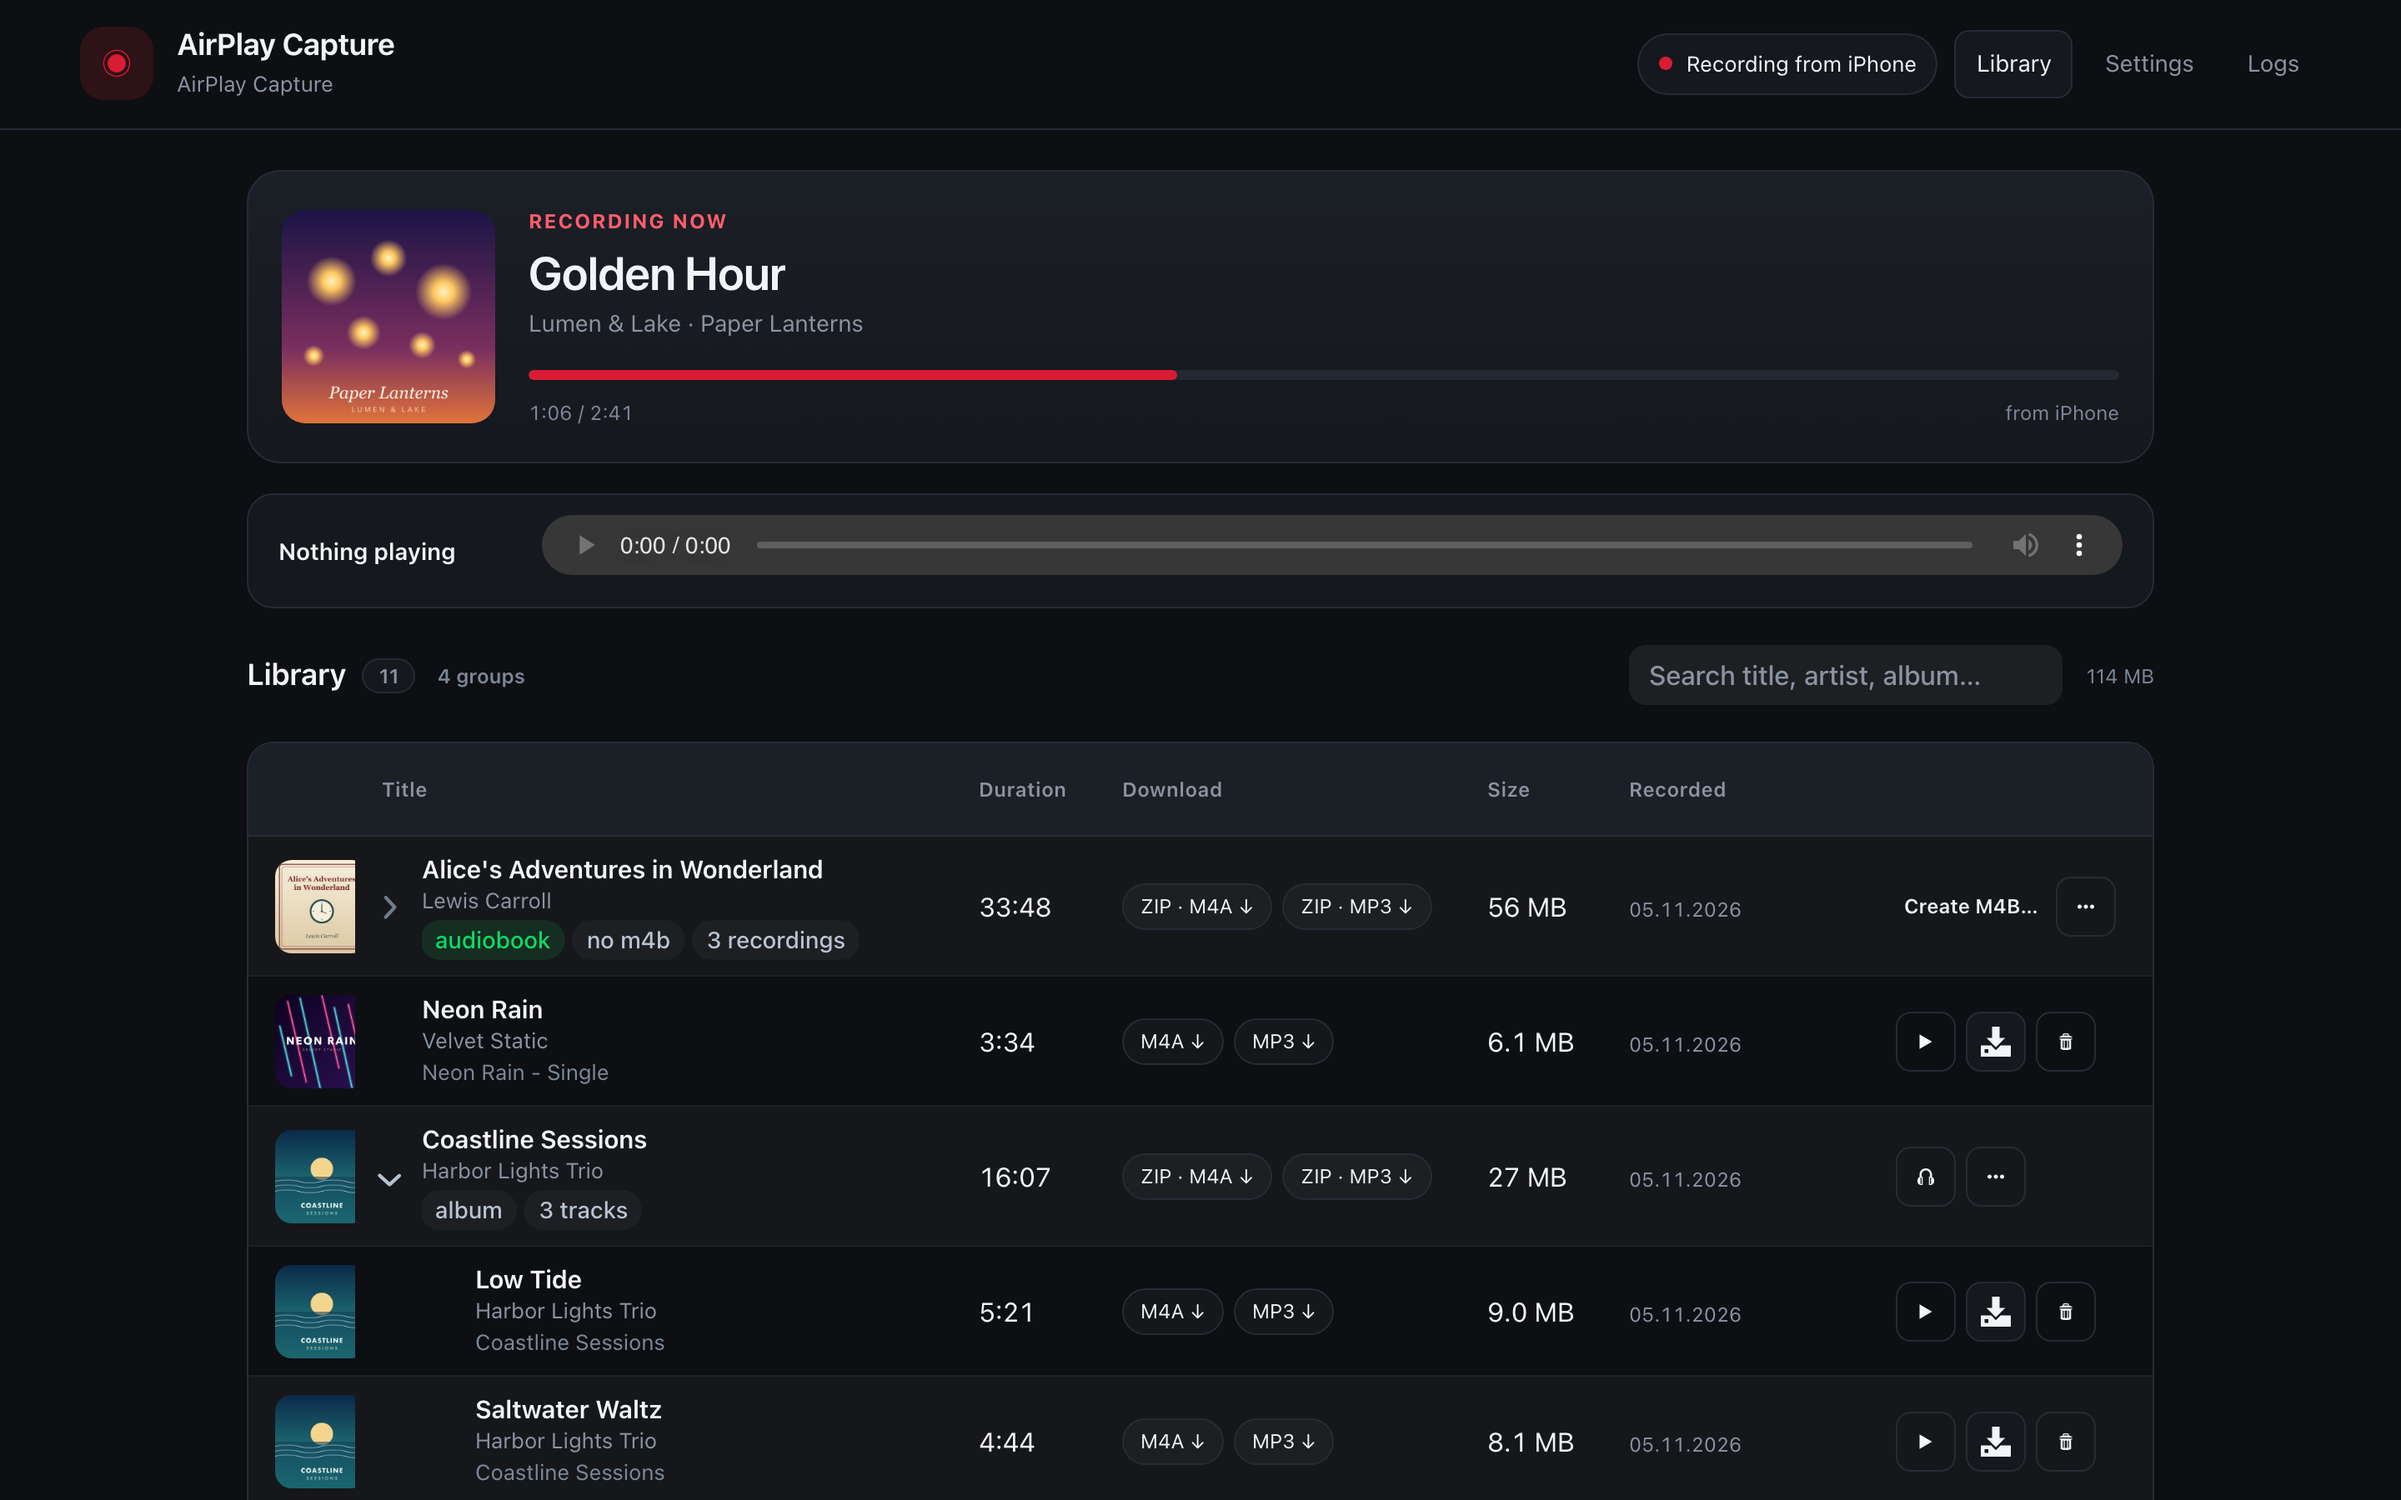
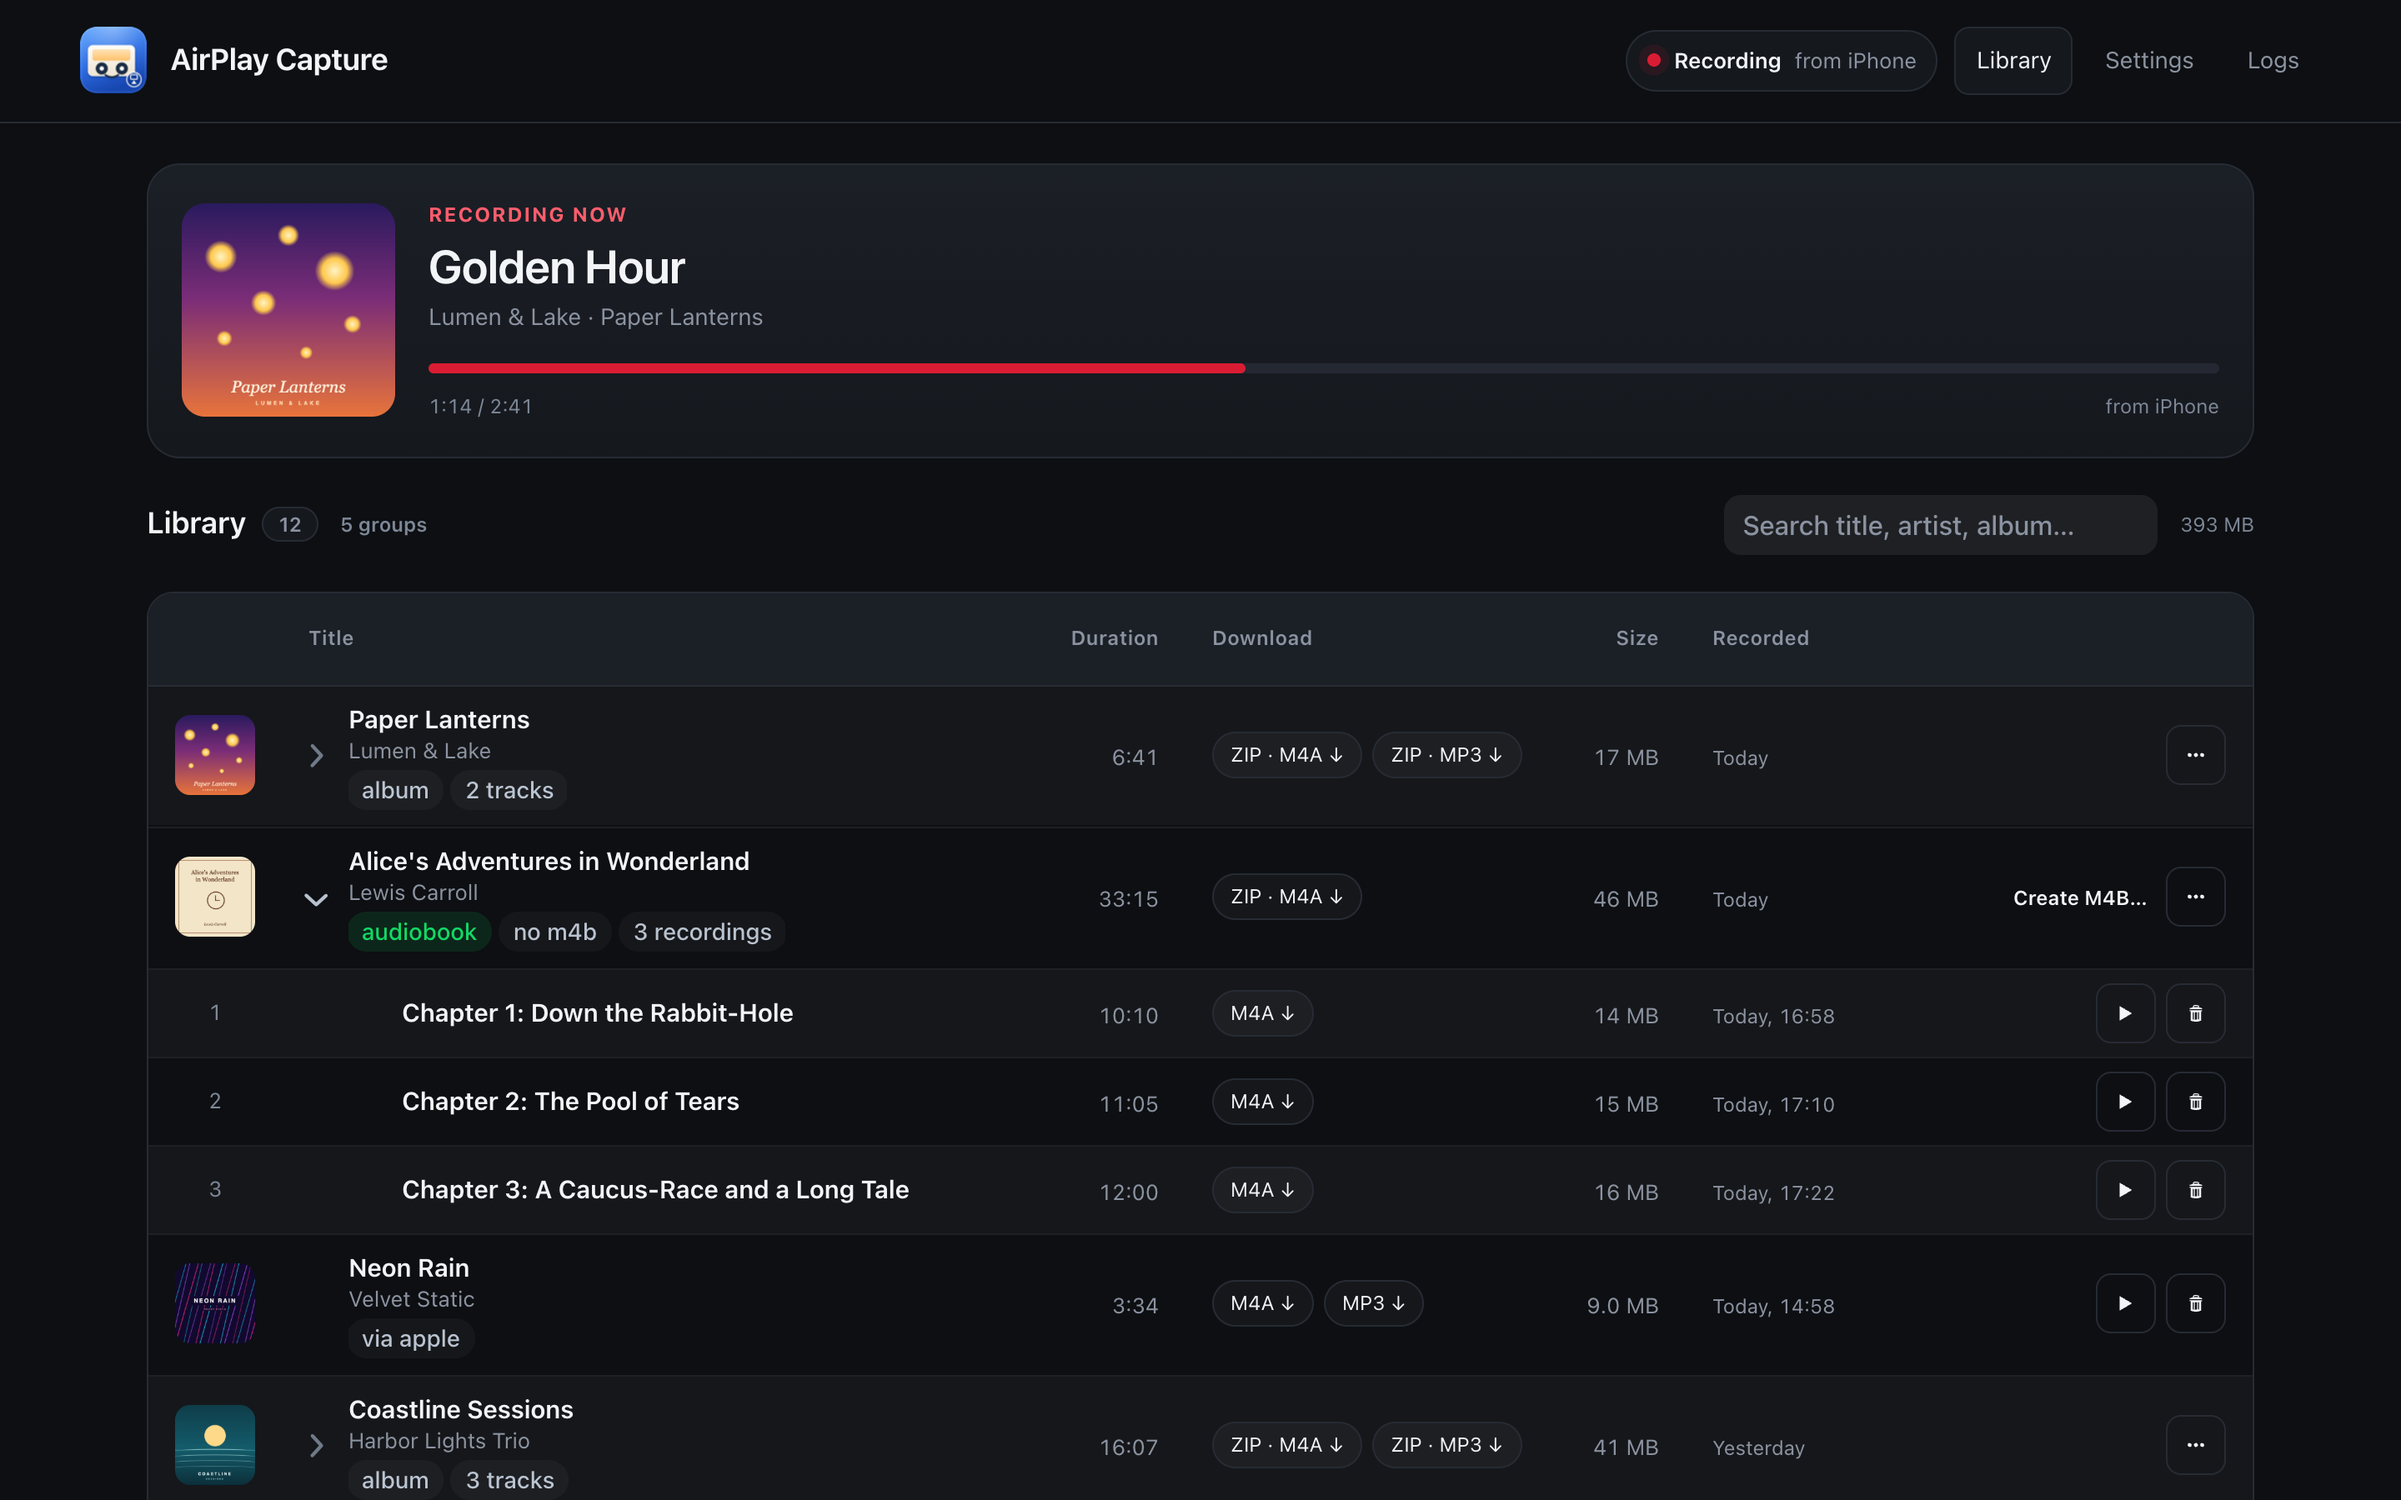
docs: describe the reworked interface and refresh the screenshots
README and changelog cover the player bar, the settings cards with
their save bar, the folding conversion history and the renamed
settings. The three screenshots show the current interface.

diff --git a/README.md b/README.md
@@ -133,15 +133,18 @@ handling are platform-independent, but please report anything that misbehaves.
 ### Record
 
 Play anything in an app that supports AirPlay (Music, Spotify, Audible, Apple Books, …) and choose
-**AirPlay Capture** as the output. The header shows the track being recorded with its cover and
-progress. Tracks shorter than 3 seconds are discarded.
+**AirPlay Capture** as the output. The card above the library shows the track being recorded with
+its cover and progress, and the header says who is playing. Tracks shorter than 3 seconds are
+discarded.
 
 ### Play and download
 
 The library groups recordings by album (or book). Expand a group to play a track or download exactly
 the format you want; `ZIP · M4A` / `ZIP · MP3` downloads the whole group, and a finished audiobook
-offers `M4B` directly. Recording the same song again never merges files: the **best take** is marked
-and used for ZIPs and audiobooks, the others stay available.
+offers `M4B` directly. A played recording opens a player bar at the bottom of the window that keeps
+playing while you move between Library, Settings and Logs. Recording the same song again never
+merges files: the **best take** is marked and used for ZIPs and audiobooks, the others stay
+available. The search narrows the library by title, artist or album.
 
 ### Turn chapters into an audiobook
 
@@ -157,7 +160,8 @@ Open a book group and choose **Create M4B…**:
 
 Conversions run in the background with live progress in the **Audiobook conversions** card, so you
 can keep recording. Finished jobs offer **Download M4B** and **Show in library**; failed jobs keep
-their reason visible.
+their reason visible. Once the newest entry is more than a day old the card folds to a one-line
+summary that opens again with a click.
 
 ### Use it on your phone
 
@@ -170,9 +174,10 @@ On Synology, open **Manage → Open on phones…** once, then open the address o
 
 ### Settings
 
-Receiver name, interface address, output formats and bitrates, silence timeout, ffmpeg path,
-lost-packet recovery, metadata completion and audiobook behaviour are editable in **Settings** and
-stored in `settings.json` in the data directory. Standalone options:
+Receiver name, network interface, file formats and bitrates, silence timeout, ffmpeg, lost-packet
+recovery, metadata completion and audiobook behaviour are editable in **Settings**, one card per
+topic. A bar appears as soon as something is changed; nothing applies until you save it there. The
+values are stored in `settings.json` in the data directory. Standalone options:
 
 | Option | Environment | Default |
 | --- | --- | --- |
@@ -207,7 +212,8 @@ GitHub.
 **The receiver does not appear in the AirPlay menu.**
 Keep the sender and the receiver on the same subnet (mDNS does not cross VLANs without a repeater).
 On macOS, grant **Local Network** permission. On a NAS, the log's `listening on <ip> via <interface>`
-line must show the LAN address, not a Docker/VPN one; set **Settings → Interface address** if needed.
+line must show the LAN address, not a Docker/VPN one; choose it under **Settings → Network interface**
+if needed.
 With a firewall enabled, allow **IGMP and UDP 5353** for discovery, plus the RTSP port (5002 by
 default) and the UDP audio ports.
 
@@ -217,8 +223,8 @@ receiver reorders packets and requests missing ones for up to 2.5 s by default; 
 are shown as `audio gaps` with the packet count, and a track stopped early is marked `incomplete`.
 
 **No M4A/MP3 was produced.**
-Install ffmpeg, or check **Settings → ffmpeg path**. Without it the lossless `.caf` capture is kept
-and the track is marked, so nothing is lost.
+Install ffmpeg, or check **Settings → Files → ffmpeg**, which says whether it was found. Without it
+the lossless `.caf` capture is kept and the track is marked, so nothing is lost.
 
 **Limits.**
 Classic **AirPlay 1 (RAOP)** only — AirPlay 2 features (multi-room, HomePod grouping) are not
@@ -283,7 +289,7 @@ hole is filled with silence to keep the timeline intact.
 ### Metadata completion
 
 AirPlay metadata is not guaranteed: Apple Music usually sends title, artist and album, but genre,
-year, track number and artwork are often missing. With **Fill missing tags from Apple catalog**
+year, track number and artwork are often missing. With **Fill missing tags from Apple's catalog**
 enabled, the exporter fills only empty fields, with a strict title/artist match, using Apple first
 and Deezer as fallback. Entries touched this way are marked `via apple` / `via deezer`. This runs on
 the export thread, so recording is never delayed; disable it if metadata should not leave the
@@ -309,8 +315,8 @@ MusicBrainz releases expose their track list. MusicBrainz asks for a contact in 
 Disable the lookup entirely if album/artist should not leave the machine.
 
 By default nothing is assembled automatically: the library offers **Create M4B…** and you review
-sources, metadata and the preview. Enable **Assemble detected audiobooks automatically** to build the
-`.m4b` as soon as a book ends; that path keeps the lossless CAF until the book is finished.
+sources, metadata and the preview. Enable **Create the audiobook automatically when a book ends** to build
+the `.m4b` as soon as a book ends; that path keeps the lossless CAF until the book is finished.
 
 ### HTTP API
 

diff --git a/CHANGELOG.md b/CHANGELOG.md
@@ -12,12 +12,39 @@ and this project adheres to [Semantic Versioning](https://semver.org/spec/v2.0.0
 - The app checks GitHub once a day for a newer release and shows an **Update** notice in the
   header, with the version and a link to the release under **Settings → Updates**. The check can
   be turned off there.
+- A player bar at the bottom of the window that keeps playing while you move between Library,
+  Settings and Logs. The play button of the playing recording becomes pause.
+- The log view follows the newest line, can show warnings and errors only, and copies its lines
+  for a bug report.
+
+### Changed
+
+- Library: titles are no longer cut off, recordings inside an album or book show their track
+  number instead of repeating cover, artist and album, and recordings of today and yesterday say
+  so. On small screens the library is one column of compact cards.
+- Settings are grouped into one card per topic with a list to jump between them. A bar appears
+  when something was changed and confirms the save; problems are shown on the field. Options that
+  have no effect are disabled, and the network interface is chosen from a list.
+- The audiobook and edition dialogs use the full height of the window and the full screen on
+  phones, and say right away when a catalog edition does not fit the recording.
+- The conversion history folds to a one-line summary once its newest entry is more than a day old.
+  The running conversion is listed first, then the waiting ones in the order they will start.
+- The header shows the package icon and a short status (Ready, Recording, Receiver offline); on
+  phones the navigation is a tab row. The card above the library says when the receiver is
+  offline, and why, instead of inviting you to look for it in the AirPlay menu.
 
 ### Fixed
 
 - Dates and times follow the time zone of the browser instead of the server, which is usually UTC
   in a container.
 - `/api/status` reports the real application version.
+- Searching for a song showed every recording of its album instead of the matching ones.
+- **Show in library** left the book collapsed in the table and highlighted only its title.
+- Delete and cancel confirmations opened with the focus on the destructive button, so Enter
+  confirmed them.
+- An interface address that does not exist on the machine could be saved and left the receiver
+  offline; it is rejected now.
+- Browser tabs had no title, and every page load requested a stylesheet that does not exist.
 
 ## [1.1.0] - 2026-11-13
 
